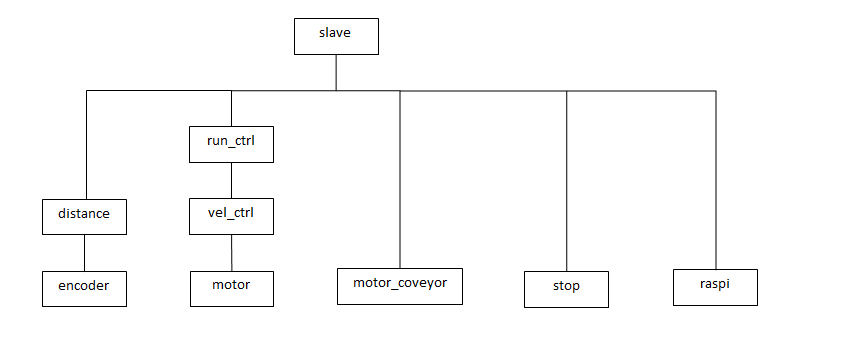
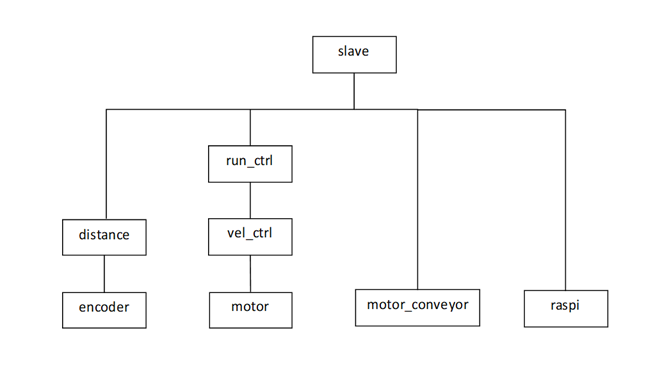
add: module_ard.xlsx etc
add: module_ard.xlsx
add: module_ras.xlsx
fix: module_ard.png
→delete "stop"
index.htmlは編集中

diff --git a/index.html b/index.html
@@ -183,6 +183,10 @@ setInterval("elm=document.getElementById('izutani');if(elm.style.visibility=='vi
 				<td>ディスプレイに表示を行う</td>
 			</tr>
 			<tr>
+				<td>*animation</td>
+				<td>ディスプレイに表示する映像</td>
+			</tr>
+			<tr>
 				<td>*app_ctrl</td>
 				<td>アプリケーションとの通信を元に制御する</td>
 			</tr>
